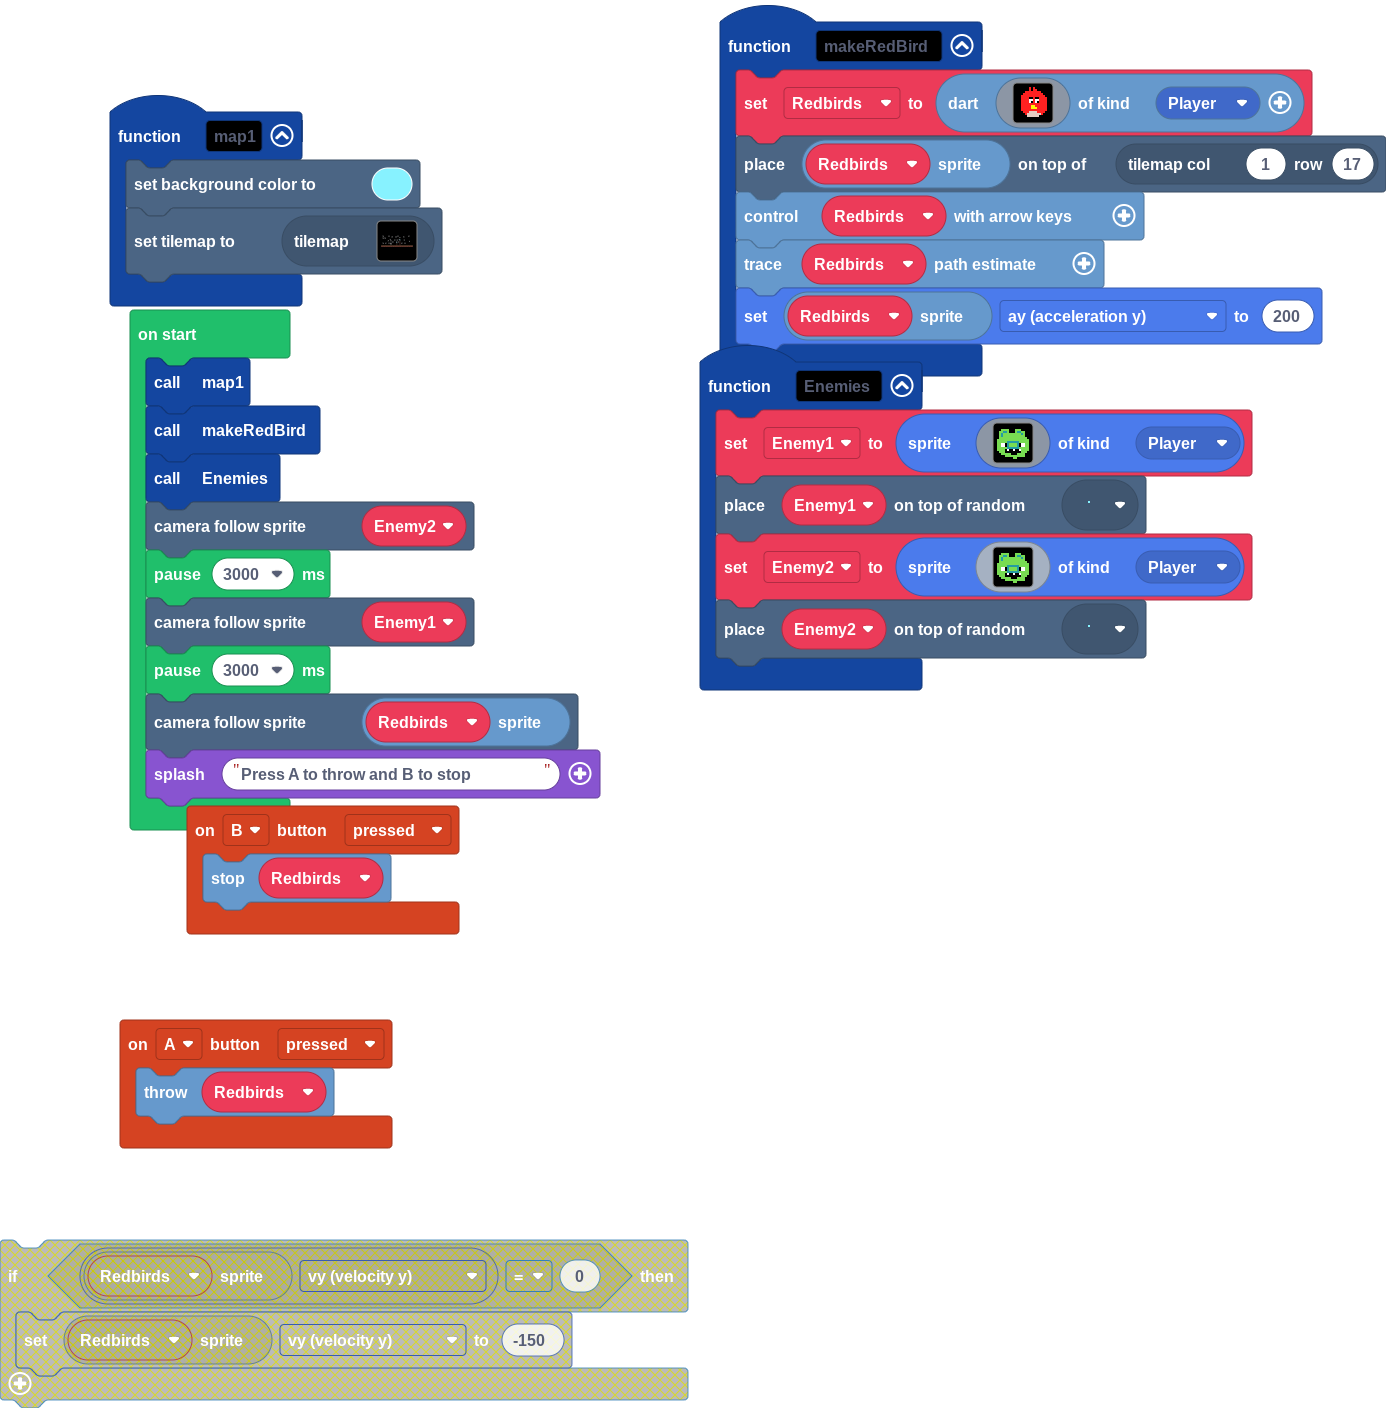
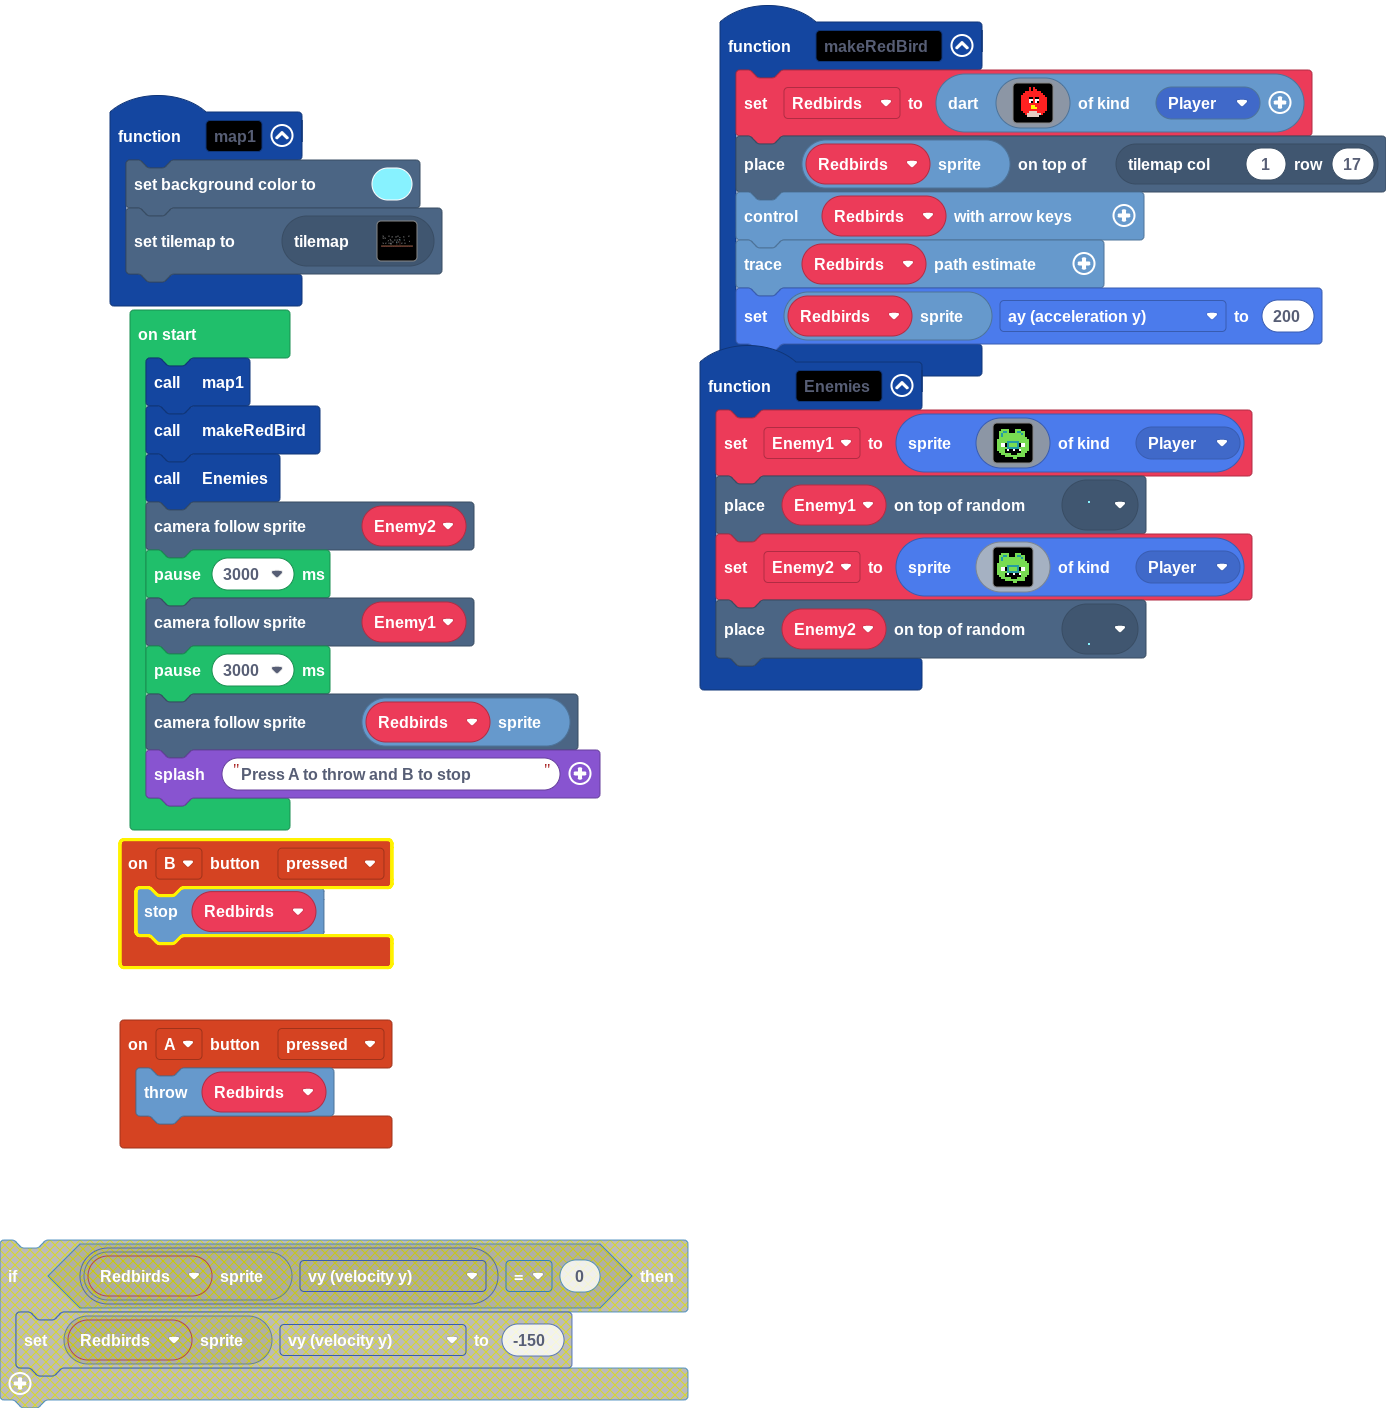
Update main.blocks, main.ts, tilemap.g.jres, tilemap.g.ts

Changed region(s): [[0.062, 0.5625, 0.3413, 0.6875]]

diff --git a/tilemap.g.ts b/tilemap.g.ts
@@ -16,11 +16,13 @@ namespace myTiles {
     export const tile6 = image.ofBuffer(hex``);
     //% fixedInstance jres blockIdentity=images._tile
     export const tile7 = image.ofBuffer(hex``);
+    //% fixedInstance jres blockIdentity=images._tile
+    export const tile8 = image.ofBuffer(hex``);
 
     helpers._registerFactory("tilemap", function(name: string) {
         switch(helpers.stringTrim(name)) {
             case "level1":
-            case "level1":return tiles.createTilemap(hex`3200140000000000000000000000000000000000000000000000000000000000000000000000000000000000000000000000000000000000000000000000000000000000000000000000000000000000000000000000000000000000000000000000000000000000000000000000000000000000000000000000000000000000000000000000000000000000000000000000000000000000000000000003000000000000000003000000000000000000000000000300000000000000000000000000000000030000000000000000000000000000000000000000000000030000000000030000000000000000000000030000000000000000000000000000000000000000000000000000000000000000000000000000000000000003000000000000000000000000000000000000000000000003000003000000000000000000000000000000000000000000000000000000000000000000000000000000000000000000000000000000000000000000000000000000000000000000000000000000000000000000000000000000000000000000000000000000000000000000000003000000000000000000000000000300000000000000000000000000000000000000000000000000000000000000000000000000000000000003000000030000000600000000000003000000000000000000000000000000000000000000000000030000000300000000000000000000000000040000000000000000000000000000000000000000000000000000000000000000000000000000000000000000000000000005000000000000000000000000000003000000000000000000000000000000000000000000000003000000000003000003000500000000000000000000000000000000000000000000000000000000000000000000000000000000000000000600000000050000000000000000000000000000000000000000000000030000000300000000030000030000000000000000040000000005000003000000000300000000000000000000000000000000000000000000000000000003000000000000000005000000000500000000000000000000000000000000000000000000000000000000000000000000000000000000000000000500000000050000000000000000000000000000000000000000000000000000000000000000000000000000000000000000050000000005000000000000000000000000000000000000000001010101010101010101010101010101010101010101010101010101010101010101010101010101010101010101010101010202020202020202020202020202020202020202020202020202020202020202020202020202020202020202020202020202`, img`
+            case "level1":return tiles.createTilemap(hex`3200140000000000000000000000000000000000000000000000000000000000000000000000000000000000000000000000000000000000000000000000000000000000000000000000000000000000000000000000000000000000000000000000000000000000000000000000000000000000000000000000000000000000000000000000000000000000000000000000000000000000000000000003000000000000000003000000000000000000000000000300000000000000000000000000000000030000000000000000000000000000000000000000000000030000000000030000000000000000000000030000000000000000000000000000000000000000000000000000000000000000000000000000000000000003000000000000000000000000000000000000000000000003000003000000000000000000000000000000000000000000000000000000000000000000000000000000000000000000000000000000000000000000000000000000000000000000000000000000000000000000000000000000000000000000000000000000000000000000000003000000000000000000000000000300000000000000000000000000000000000000000000000000000000000000000000000000000000000003000000030000000600000000000003000000000000000000000000000000000000000000000000030000000300000000000000000000000000040000000000000000000000000000000000000000000000000000000000000000000000000000000000000000000000000005000000000000000000000000000003000000000000000000000000000000000000000000000003000000000003000003000500000000000000000000000000000000000000000000000000000000000000000000000000000000000000000700000000050000000000000000000000000000000000000000000000030000000300000000030000030000000000000000040000000005000003000000000300000000000000000000000000000000000000000000000000000003000000000000000005000000000500000000000000000000000000000000000000000000000000000000000000000000000000000000000000000500000000050000000000000000000000000000000000000000000000000000000000000000000000000000000000000000050000000005000000000000000000000000000000000000000001010101010101010101010101010101010101010101010101010101010101010101010101010101010101010101010101010202020202020202020202020202020202020202020202020202020202020202020202020202020202020202020202020202`, img`
 ..................................................
 ..................................................
 ..................................................
@@ -41,7 +43,7 @@ namespace myTiles {
 ..................................................
 22222222222222222222222222222222222222222222222222
 22222222222222222222222222222222222222222222222222
-`, [myTiles.transparency16,myTiles.tile1,myTiles.tile3,myTiles.tile4,myTiles.tile5,myTiles.tile6,myTiles.tile7], TileScale.Sixteen);
+`, [myTiles.transparency16,myTiles.tile1,myTiles.tile3,myTiles.tile4,myTiles.tile5,myTiles.tile6,myTiles.tile7,myTiles.tile8], TileScale.Sixteen);
         }
         return null;
     })
@@ -63,6 +65,8 @@ namespace myTiles {
             case "tile6":return tile6;
             case "pig":
             case "tile7":return tile7;
+            case "myTile5":
+            case "tile8":return tile8;
         }
         return null;
     })

diff --git a/main.ts b/main.ts
@@ -60,7 +60,7 @@ function Enemies () {
         . . . . 7 7 7 7 7 7 7 7 7 7 . . 
         . . . . . . . . 7 7 . . . . . . 
         `, SpriteKind.Player)
-    tiles.placeOnRandomTile(Enemy2, assets.tile`pig`)
+    tiles.placeOnRandomTile(Enemy2, assets.tile`myTile5`)
 }
 controller.B.onEvent(ControllerButtonEvent.Pressed, function () {
     Redbirds.stopDart()
